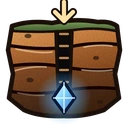
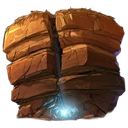
Strate : icône peinte sur Midjourney, dans le même style que les autres ressources
Bryan a généré l'icône d'après le dessin validé (un bloc de terrain en
couches, un puits avec une échelle, un cristal au fond). Détourée, puis
retouchée pour rester lisible en 28 px : puits assombri, lumière bleue qui
remonte du cristal, halo du cristal. Un peu plus petite dans son écrin, car
plus large que les autres icônes. Le dessin vectoriel provisoire est retiré.

Claude-Session: https://claude.ai/code/session_01V7BnmMnJ7BohrTqfAHykg1

diff --git a/src/ui/cristal.css b/src/ui/cristal.css
@@ -109,6 +109,8 @@ body:has(#app:is([data-mode="combat"],[data-mode="district"])){background:
 #app:is([data-mode="combat"],[data-mode="district"]) .hud .res.composants{--lueur:rgba(150,200,255,.4)}
 #app:is([data-mode="combat"],[data-mode="district"]) .hud .res.eclats{--lueur:rgba(200,150,255,.5)}
 #app:is([data-mode="combat"],[data-mode="district"]) .hud .res.abysse{--lueur:rgba(120,210,255,.5)}
+/* le bloc de la Strate est plus large que les autres icônes : un peu plus petit dans son écrin, pour que l'hexagone reste visible */
+#app:is([data-mode="combat"],[data-mode="district"]) .hud .res.abysse .ico.peinte{padding:4px 4px 8px}
 #app:is([data-mode="combat"],[data-mode="district"]) .hud .res .v{align-self:end;font-size:16px;line-height:1.05}
 #app:is([data-mode="combat"],[data-mode="district"]) .hud .res small{align-self:start;font-family:var(--body);font-size:10.5px;line-height:1.35;letter-spacing:.01em;color:#A9BEDF}
 #app:is([data-mode="combat"],[data-mode="district"]) .hud .res.energie.plein small{color:#FFC768}
